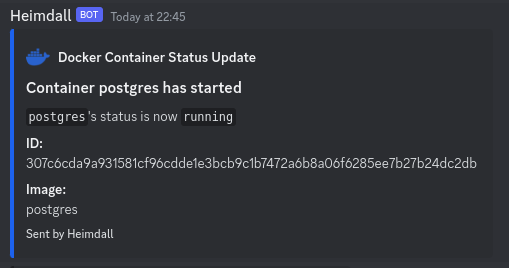
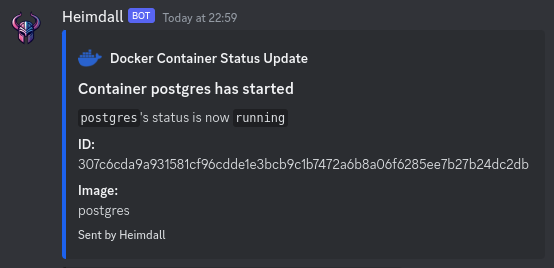
feat: 🎸 add screenshots to README
✅ Closes: #13

Changed region(s): [[0.0, 0.0, 0.9725, 0.9552]]

diff --git a/pkg/heimdall/discord.go b/pkg/heimdall/discord.go
@@ -15,9 +15,10 @@ func New(webhookURL string) *DiscordProvider {
 	}
 }
 
+var AvatarUrl = "https://github.com/RobinHeidenis/heimdall/blob/52fe5004e0e254d2e24e574807f4879b494024fc/public/logo.png?raw=true"
+var BotName = "Heimdall"
+
 func (p DiscordProvider) SendPeriodicContainerStatusUpdate(updateTable string) {
-	username := "Heimdall"
-	avatarUrl := "https://neellik.com/wp-content/uploads/2022/03/heimdall.png"
 	authorName := "Docker Container Status"
 	authorIconUrl := "https://www.docker.com/wp-content/uploads/2023/04/cropped-Docker-favicon-32x32.png"
 	title := "Periodic status update"
@@ -35,8 +36,8 @@ func (p DiscordProvider) SendPeriodicContainerStatusUpdate(updateTable string) {
 	}}
 
 	message := discordwebhook.Message{
-		Username:  &username,
-		AvatarUrl: &avatarUrl,
+		Username:  &BotName,
+		AvatarUrl: &AvatarUrl,
 		Embeds:    &embeds,
 	}
 
@@ -139,12 +140,9 @@ func makeWebhookMessage(event ContainerEvent) discordwebhook.Message {
 		Color:       &embedColor,
 	}}
 
-	username := "Heimdall"
-	avatarUrl := "https://neellik.com/wp-content/uploads/2022/03/heimdall.png"
-
 	return discordwebhook.Message{
 		Embeds:    &embeds,
-		Username:  &username,
-		AvatarUrl: &avatarUrl,
+		Username:  &BotName,
+		AvatarUrl: &AvatarUrl,
 	}
 }

diff --git a/README.md b/README.md
@@ -163,3 +163,22 @@ It uses the following technologies:
 ### Discord notifications
 #### Container started
 ![container-started.png](public/container-started.png)
+
+#### Container stopped
+![container-stopped.png](public/container-stopped.png)
+
+#### Container healthy
+![container-healthy.png](public/container-healthy.png)
+
+#### Container unhealthy
+![container-unhealthy.png](public/container-unhealthy.png)
+
+#### Container errored
+![container-errored.png](public/container-errored.png)
+
+### Periodic notification
+#### Running containers
+![container-list.png](public/container-list.png)
+
+#### All containers
+![container-list-all.png](public/container-list-all.png)
